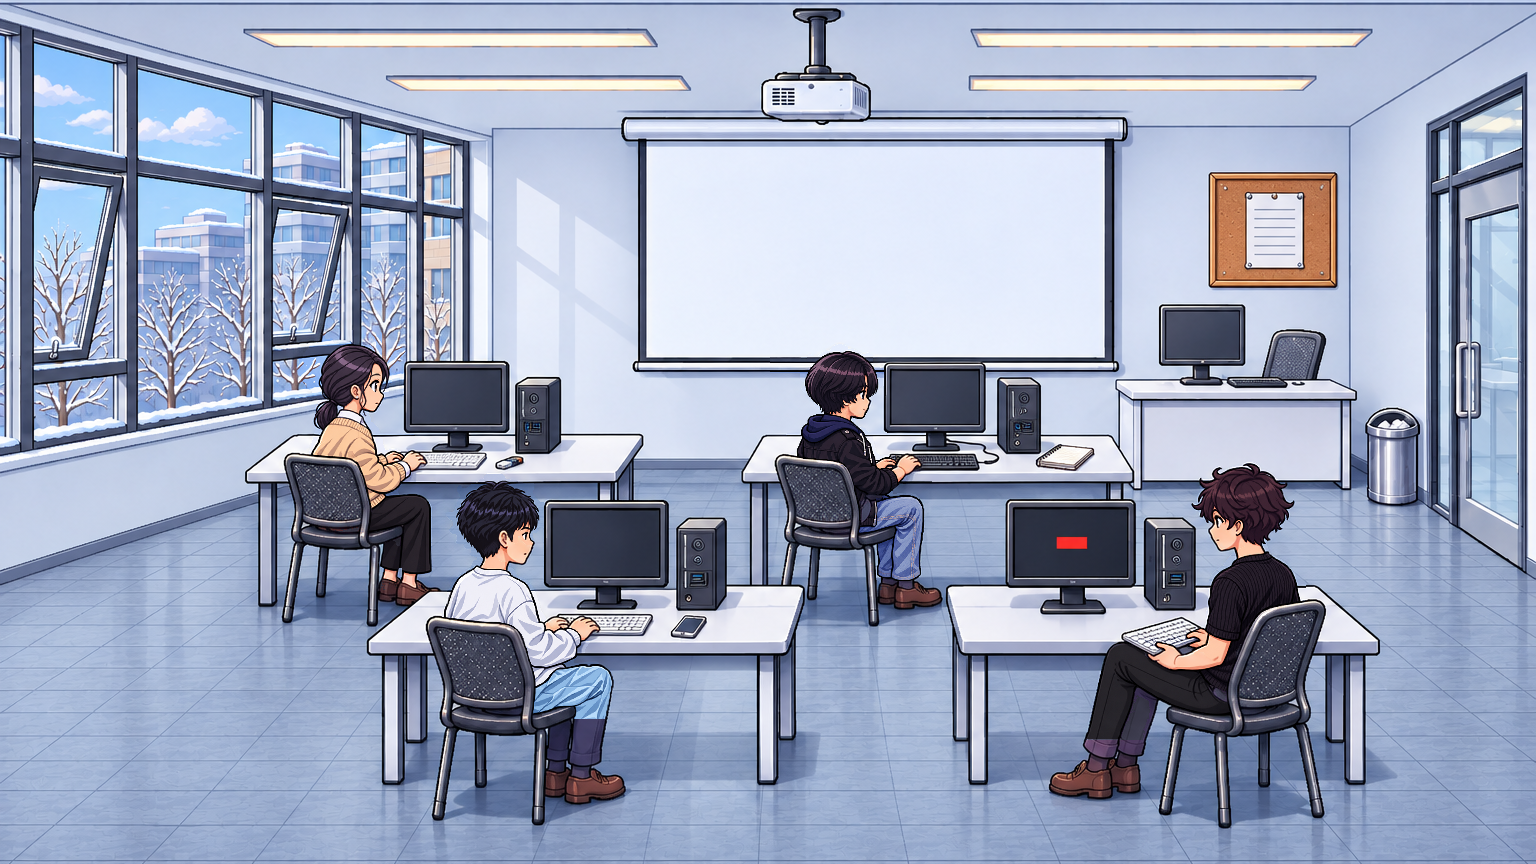
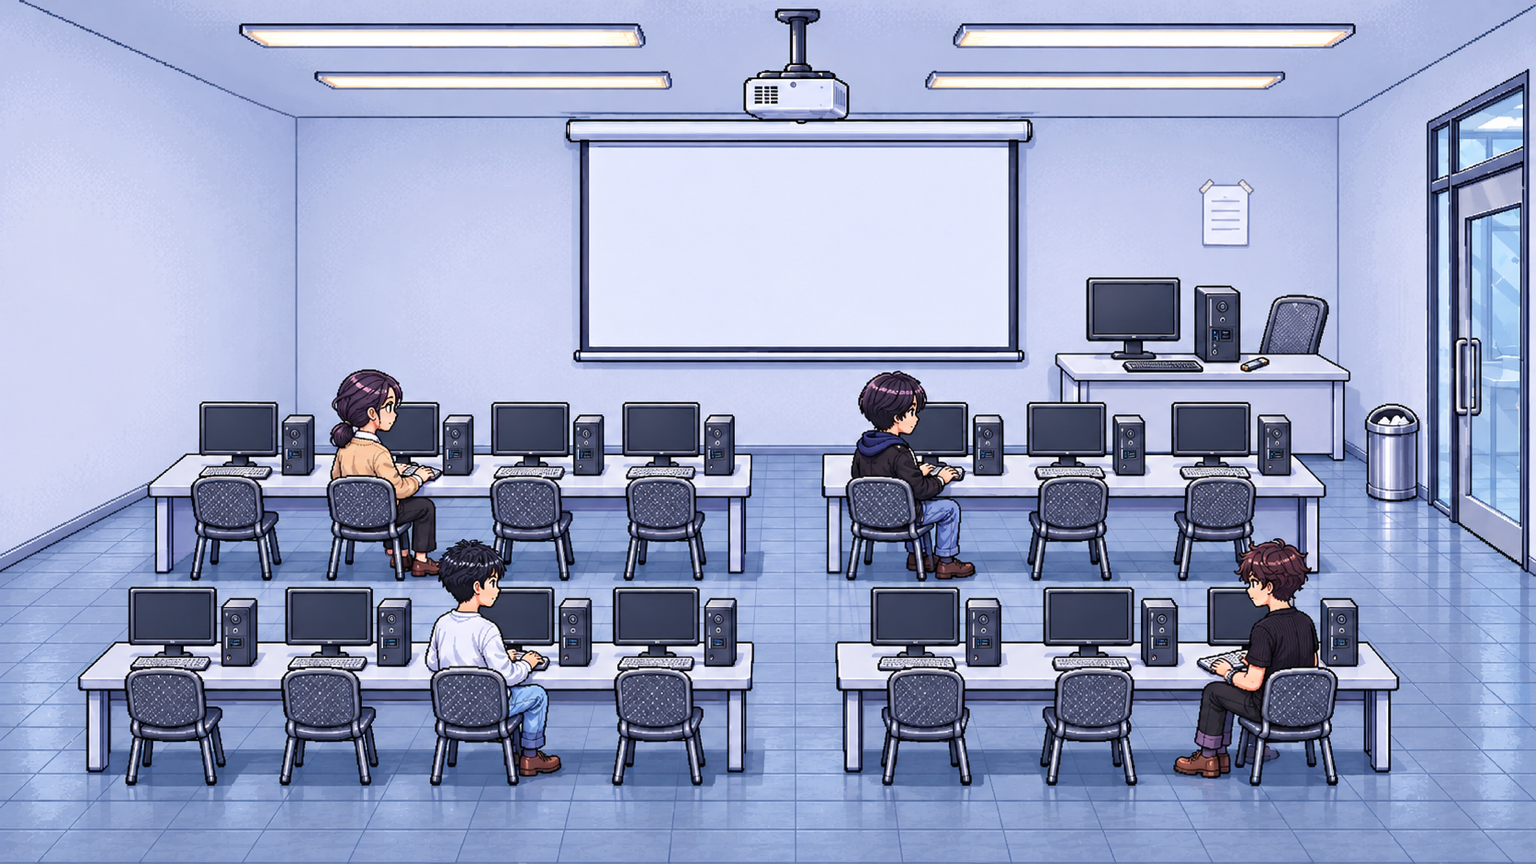
배경: 강의실을 새 구조로 다시 그림 (긴 책상 2줄, 창문·게시판 없음, 강사님 본체 보임)
- 왼쪽 4자리·오른쪽 3자리 긴 책상 2줄, 강사님 책상에 모니터·본체·키보드·USB
- 멘토링 신청표는 스크린 오른쪽 벽의 종이
- 누르는 자리와 사람 좌표를 새 그림에 맞춤

diff --git a/lib/scene/classroom.ts b/lib/scene/classroom.ts
@@ -2,8 +2,9 @@
 // 역할(범인 포함)은 게임마다 바뀌므로 여기에는 역할 기준 정보를 두지 않는다. 사람은 서버의 사람 ID로 가리킨다.
 // 좌표는 public/game/scenes/classroom.png(1536×864) 기준 %.
 //
-// 임시 배치: 배경을 새로 그리기 전이라, 지금 그림의 오른쪽 뒤 책상을 강사님 자리로, 벽 게시판을 멘토링 신청표 자리로 쓴다.
-// 그림을 다시 그리면 hotspots·people 좌표만 고치면 된다. (강사실을 따로 그리면 scenes 에 장소를 하나 더한다.)
+// 배경 구조(2026-11-27): 왼쪽 벽에 창문 없음, 게시판 없음. 긴 책상 2줄(왼쪽 4자리, 오른쪽 3자리). 실제 강의실은 4줄이지만 화면에는 2줄만 그렸다.
+// 강사님 자리는 오른쪽 뒤, 책상 위에 모니터·본체·키보드·USB가 보인다. 멘토링 신청표는 스크린 오른쪽 벽에 붙은 종이.
+// 그림을 다시 그리면 hotspots·people 좌표만 고치면 된다. 그림 지시문: docs/design/drafts/briefs/ransomware-classroom.md
 import type { Closeup, ClueForm, Emotion, Scene } from "@/lib/view/types";
 
 /** 서버 사람 ID → 그림 파일 이름. public/game/{portraits,sprites}/<id>-<표정>.png */
@@ -42,14 +43,11 @@ export const FORM_ICON: Record<ClueForm, string> = { window: icon(9), paper: ico
 /** 단서가 없는 곳의 관찰문. {victim}은 피해자 이름으로 바뀐다. */
 export const SPOT_TEXT: Record<string, string> = {
   monitor: "실습 화면이 떠 있다. 눈에 띄는 기록은 없다.",
-  keyboard: "수강생 자리의 키보드다. 이상한 점은 없다.",
   "teacher-kb": "강사님의 키보드. 자판에는 이상한 점이 없다.",
   "teacher-tower": "강사님 컴퓨터의 본체. USB 포트는 지금 모두 비어 있다.",
   screen: "스크린이 내려와 있다. 오후 강의 자료가 띄워질 자리였다.",
-  window: "앙상한 가로수 위로 첫눈이 살짝 앉았다.",
-  usb: "수강생 자리의 USB 메모리. 실습 과제 폴더뿐이다.",
-  phone: "휴대폰이다. 잠겨 있다.",
-  note: "실습 노트. 오늘 수업 필기뿐이다.",
+  door: "유리문 너머로 복도가 보인다. 계단은 복도 끝에 있다.",
+  trash: "쓰레기통. 구겨진 종이뿐이다.",
   "pc-file": "열리지 않는다. 파일 이름 뒤에 낯선 글자가 붙어 있다.",
   "pc-note": "누군가 장난처럼 남긴 안내문이다. 이것만으로는 누가 했는지 알 수 없다.",
 };
@@ -61,32 +59,26 @@ export const classroom: Scene = {
   width: 1536,
   height: 864,
   hotspots: [
-    { id: "window", label: "창문", x: 0, y: 3.5, w: 30.6, h: 49.7 },
-    { id: "screen", label: "스크린", x: 41.5, y: 13.7, w: 31.1, h: 28.5 },
-    { id: "mentoring-sheet", label: "벽에 붙은 종이", x: 78.8, y: 19.9, w: 8.3, h: 13.3 },
+    { id: "screen", label: "스크린", x: 37.4, y: 16.2, w: 29.3, h: 25.5 },
+    { id: "mentoring-sheet", label: "벽에 붙은 종이", x: 77.4, y: 20, w: 4.6, h: 9.4 },
+    { id: "door", label: "유리문", x: 92.8, y: 11, w: 7.2, h: 54 },
+    { id: "trash", label: "쓰레기통", x: 88.8, y: 46.6, w: 3.8, h: 11.4 },
     // 강사님 자리
-    { id: "teacher-monitor", label: "강사님의 모니터", x: 75.4, y: 35.2, w: 5.8, h: 9.4, closeup: "teacher-pc" },
-    { id: "desk-usb", label: "강사님 키보드 옆", x: 84.5, y: 42.2, w: 3.6, h: 3.6 },
-    { id: "teacher-kb", label: "강사님의 키보드", x: 80.1, y: 43.4, w: 4.4, h: 1.8 },
-    { id: "teacher-tower", label: "강사님 컴퓨터 본체", x: 72.6, y: 45.6, w: 15.6, h: 12.3 },
-    // 수강생 자리의 모니터와 소품 (단서 없음)
-    { id: "monitor", label: "모니터", x: 26.4, y: 41.9, w: 6.8, h: 10.2 },
-    { id: "monitor", label: "모니터", x: 57.6, y: 41.9, w: 6.5, h: 9.6 },
-    { id: "monitor", label: "모니터", x: 35.5, y: 57.9, w: 8, h: 12.5 },
-    { id: "monitor", label: "모니터", x: 65.6, y: 57.9, w: 8.3, h: 9.8 },
-    { id: "keyboard", label: "키보드", x: 27.3, y: 51.8, w: 4.3, h: 3 },
-    { id: "keyboard", label: "키보드", x: 59.4, y: 51.8, w: 4.3, h: 3 },
-    { id: "keyboard", label: "키보드", x: 36.1, y: 70.6, w: 6.3, h: 3 },
-    { id: "keyboard", label: "키보드", x: 72.9, y: 71.2, w: 5.6, h: 4.6 },
-    { id: "usb", label: "USB 메모리", x: 31.8, y: 51.8, w: 2.6, h: 3 },
-    { id: "phone", label: "휴대폰", x: 43.6, y: 70.8, w: 2.6, h: 3.4 },
-    { id: "note", label: "실습 노트", x: 67.4, y: 51.3, w: 3.9, h: 3.2 },
+    { id: "teacher-monitor", label: "강사님의 모니터", x: 70.6, y: 31.9, w: 6.4, h: 9.6, closeup: "teacher-pc" },
+    { id: "teacher-tower", label: "강사님 컴퓨터 본체", x: 77.6, y: 33, w: 3.3, h: 8.6 },
+    { id: "teacher-kb", label: "강사님의 키보드", x: 72.9, y: 41.3, w: 5.6, h: 2 },
+    { id: "desk-usb", label: "강사님 키보드 옆", x: 79.9, y: 40.3, w: 3, h: 3.2 },
+    // 수강생 자리 (단서 없음)
+    { id: "monitor", label: "수강생 자리의 모니터", x: 12.8, y: 46.2, w: 36, h: 8.6 },
+    { id: "monitor", label: "수강생 자리의 모니터", x: 60.6, y: 46.2, w: 23.8, h: 8.6 },
+    { id: "monitor", label: "수강생 자리의 모니터", x: 8.2, y: 67.8, w: 40.4, h: 9.4 },
+    { id: "monitor", label: "수강생 자리의 모니터", x: 56.4, y: 67.8, w: 32.4, h: 9.4 },
   ],
   people: [
-    { suspectId: "kim", hit: { x: 19.5, y: 39, w: 7.5, h: 30 } },
-    { suspectId: "hwangyc", hit: { x: 52, y: 40, w: 5.5, h: 30 } },
-    { suspectId: "won", hit: { x: 28.6, y: 56, w: 7.5, h: 37 } },
-    { suspectId: "hwanggh", hit: { x: 76, y: 54, w: 9, h: 37 } },
+    { suspectId: "kim", hit: { x: 21.2, y: 42.4, w: 7.6, h: 24.6 } },
+    { suspectId: "hwangyc", hit: { x: 55.2, y: 42.6, w: 8.6, h: 24.8 } },
+    { suspectId: "won", hit: { x: 27.4, y: 62.2, w: 8.8, h: 28 } },
+    { suspectId: "hwanggh", hit: { x: 76.2, y: 62.2, w: 11.2, h: 28 } },
   ],
 };
 

diff --git a/docs/design/drafts/briefs/ransomware-classroom.md b/docs/design/drafts/briefs/ransomware-classroom.md
@@ -1,0 +1,13 @@
+Proceed without asking questions. Use your image generation tool to create ONE image and save it as out.png in the current directory. Do not write code to draw it.
+
+Task: redraw the attached classroom background (ref.png) for a 16-bit pixel-art adventure game. Keep EXACTLY the same art style, palette, lighting (early-winter daytime), camera viewpoint and perspective, 16:9 landscape, and the same four characters (same hair, clothes, proportions, seen from behind/side, seated at computers). No text, no UI, no labels, no speech bubbles.
+
+Change the room layout as follows:
+1. LEFT WALL: remove the windows completely. The left wall is a plain interior wall (same wall color as the rest of the room), no windows anywhere on it.
+2. RIGHT/BACK WALL: remove the cork bulletin board. No bulletin board anywhere. Instead, a single plain white A4 paper sheet is taped directly on the back wall just to the right of the projector screen (small, plain, a few grey lines, no readable text).
+3. INSTRUCTOR DESK: keep it in the same place (back right, near the door). On the desk, clearly visible to the viewer: a monitor, a black desktop PC tower standing ON TOP of the desk right next to the monitor (the tower must be fully visible, with its front panel facing the viewer), a keyboard, and a small USB flash drive lying on the desk beside the keyboard. The instructor's chair is empty.
+4. STUDENT DESKS: replace the individual student desks with long shared tables arranged in exactly TWO rows (a back row and a front row). Each row has two long tables side by side with an aisle in the middle: the LEFT long table is wider and seats FOUR students side by side (4 monitors, 4 keyboards, 4 PC towers, 4 chairs); the RIGHT long table is shorter and seats THREE students side by side (3 monitors, 3 keyboards, 3 towers, 3 chairs). So 14 seats in total, all facing the projector screen at the front.
+5. CHARACTERS: the same four characters from the reference are seated, spread out: in the back row, the woman with the purple ponytail and beige sweater at the left table, and the black-haired boy in the dark hooded jacket at the right table; in the front row, the short-black-haired boy in the white sweatshirt at the left table, and the wavy brown-haired boy in the black shirt at the right table. All other seats are empty chairs. Characters must not overlap each other.
+6. Keep the projector, the pulled-down projector screen at the front center, the ceiling lights, the glass door on the right, the trash can and the tiled floor as in the reference.
+
+Leave the bottom 20% of the image free of important objects (floor and front-row chair backs only), because a dialogue box covers it. Output size 1536x864 (or the closest 16:9 size available).
